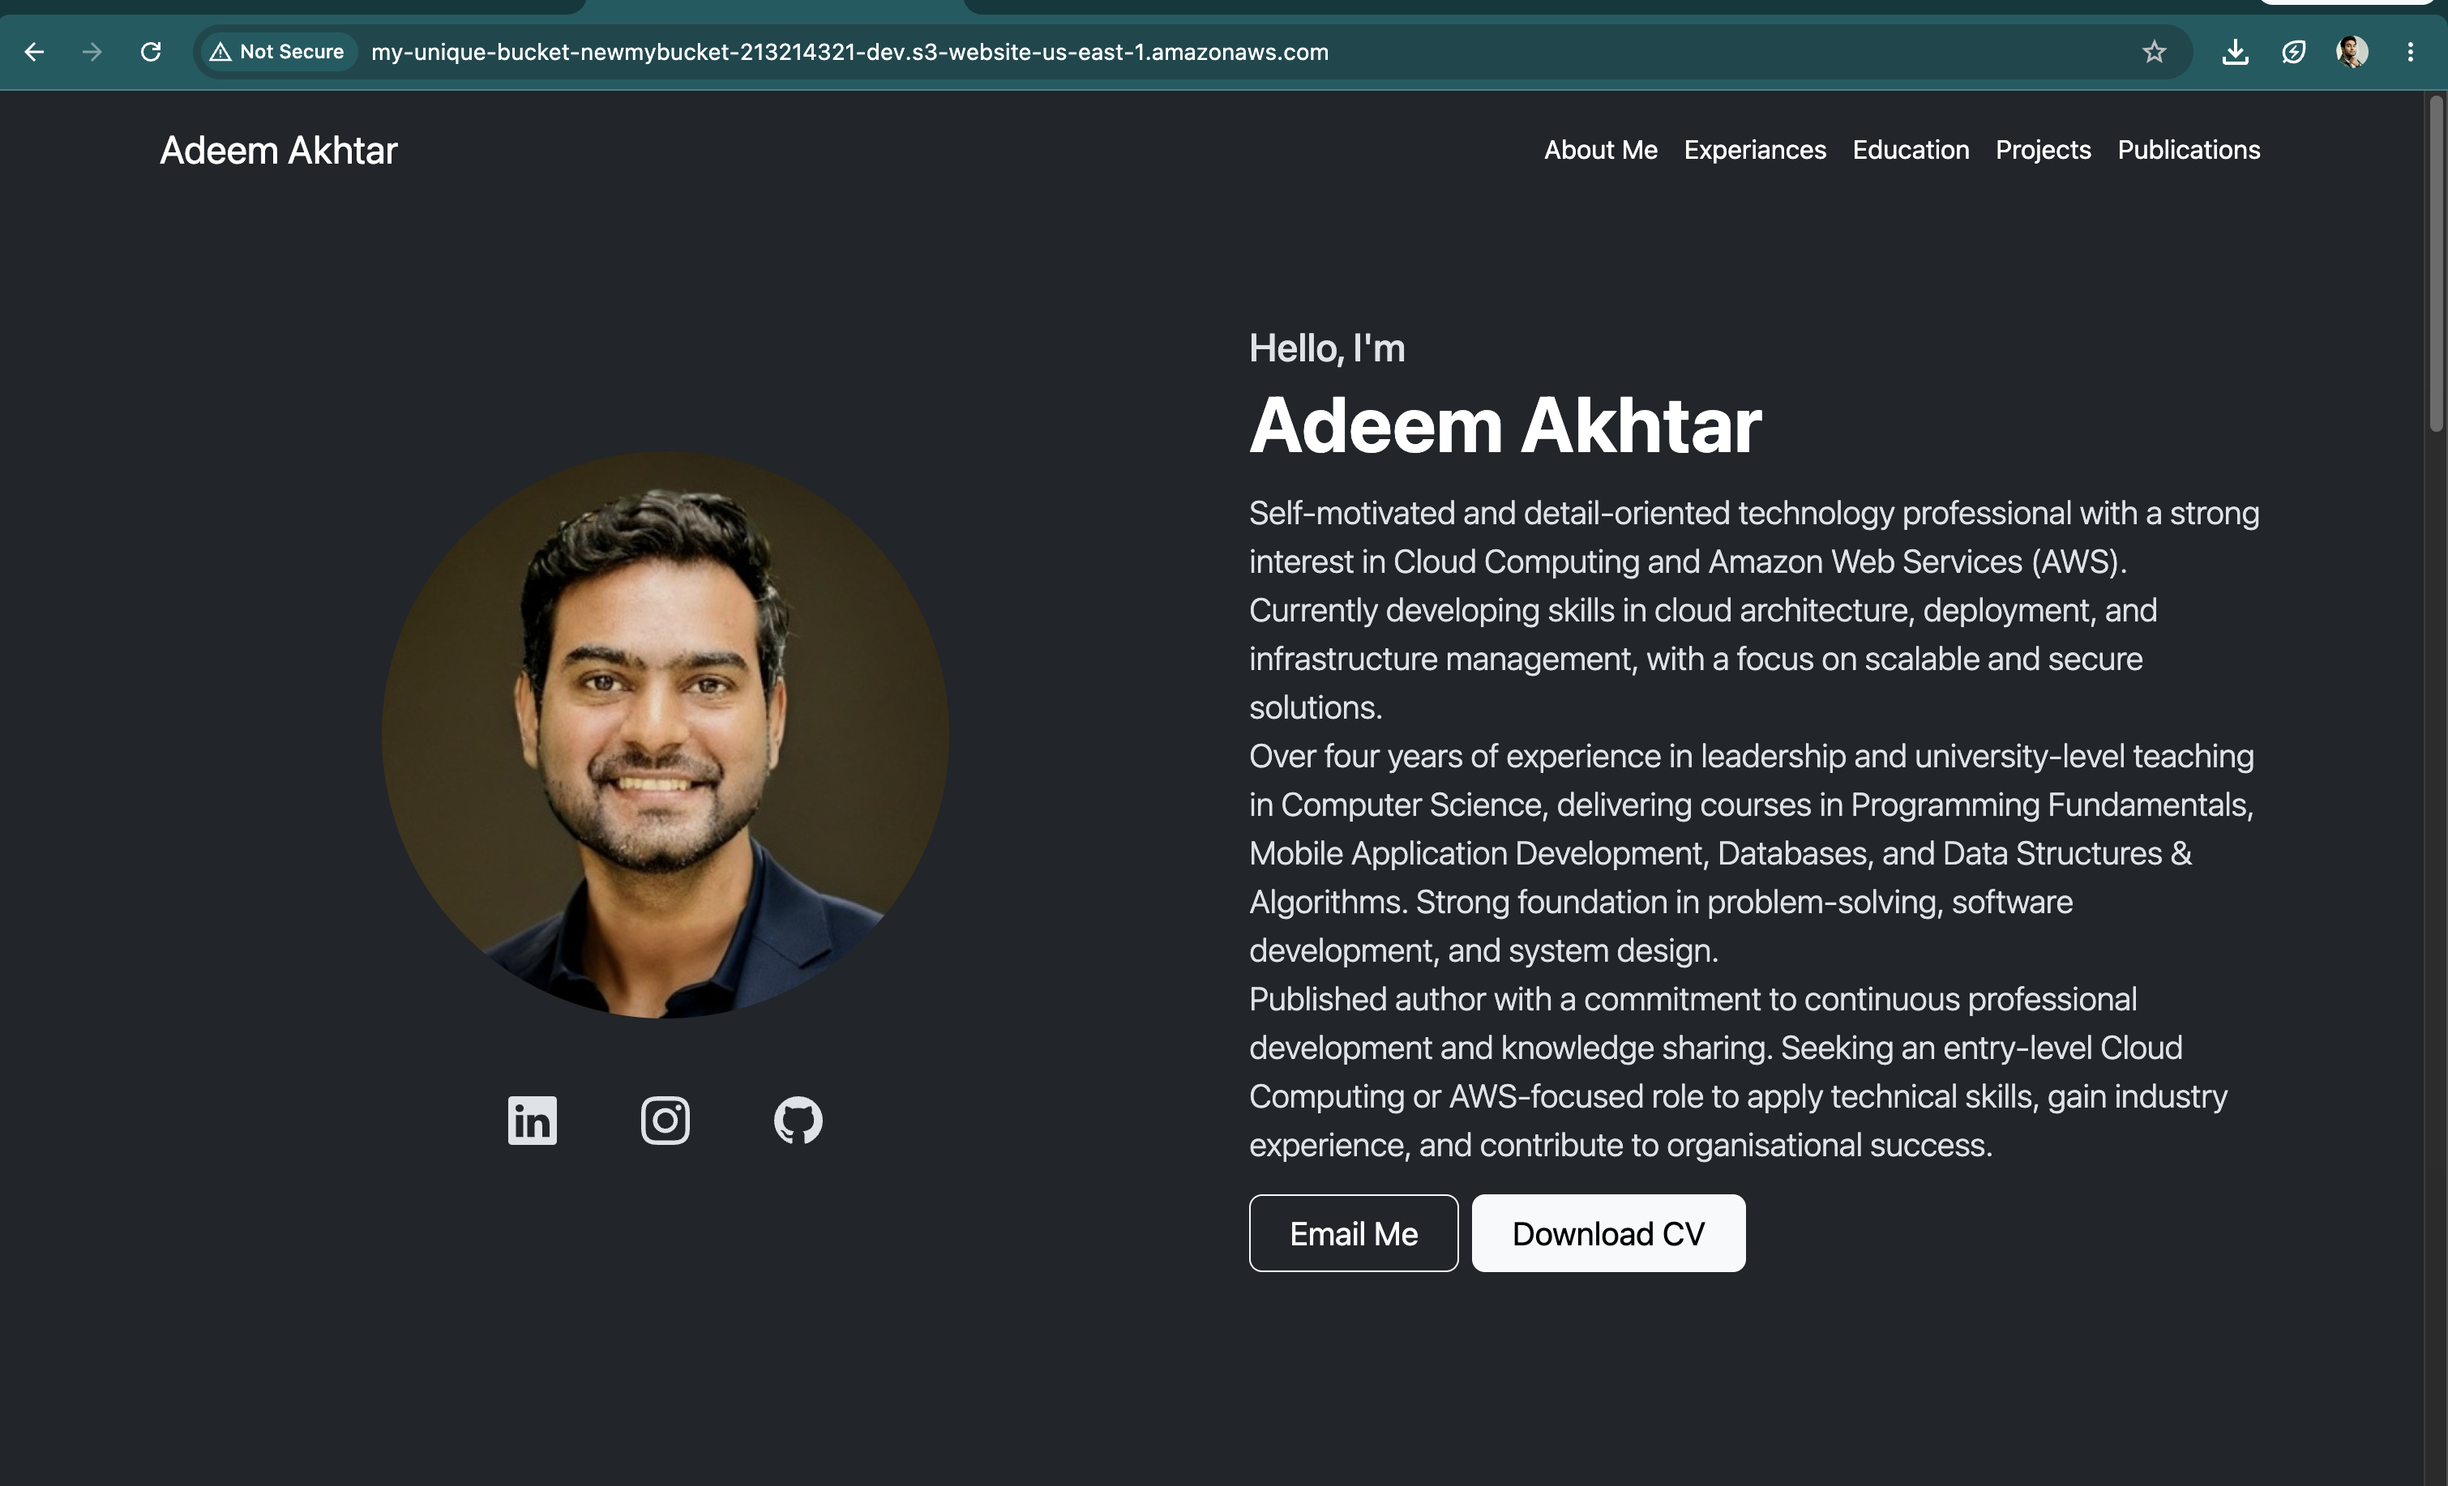
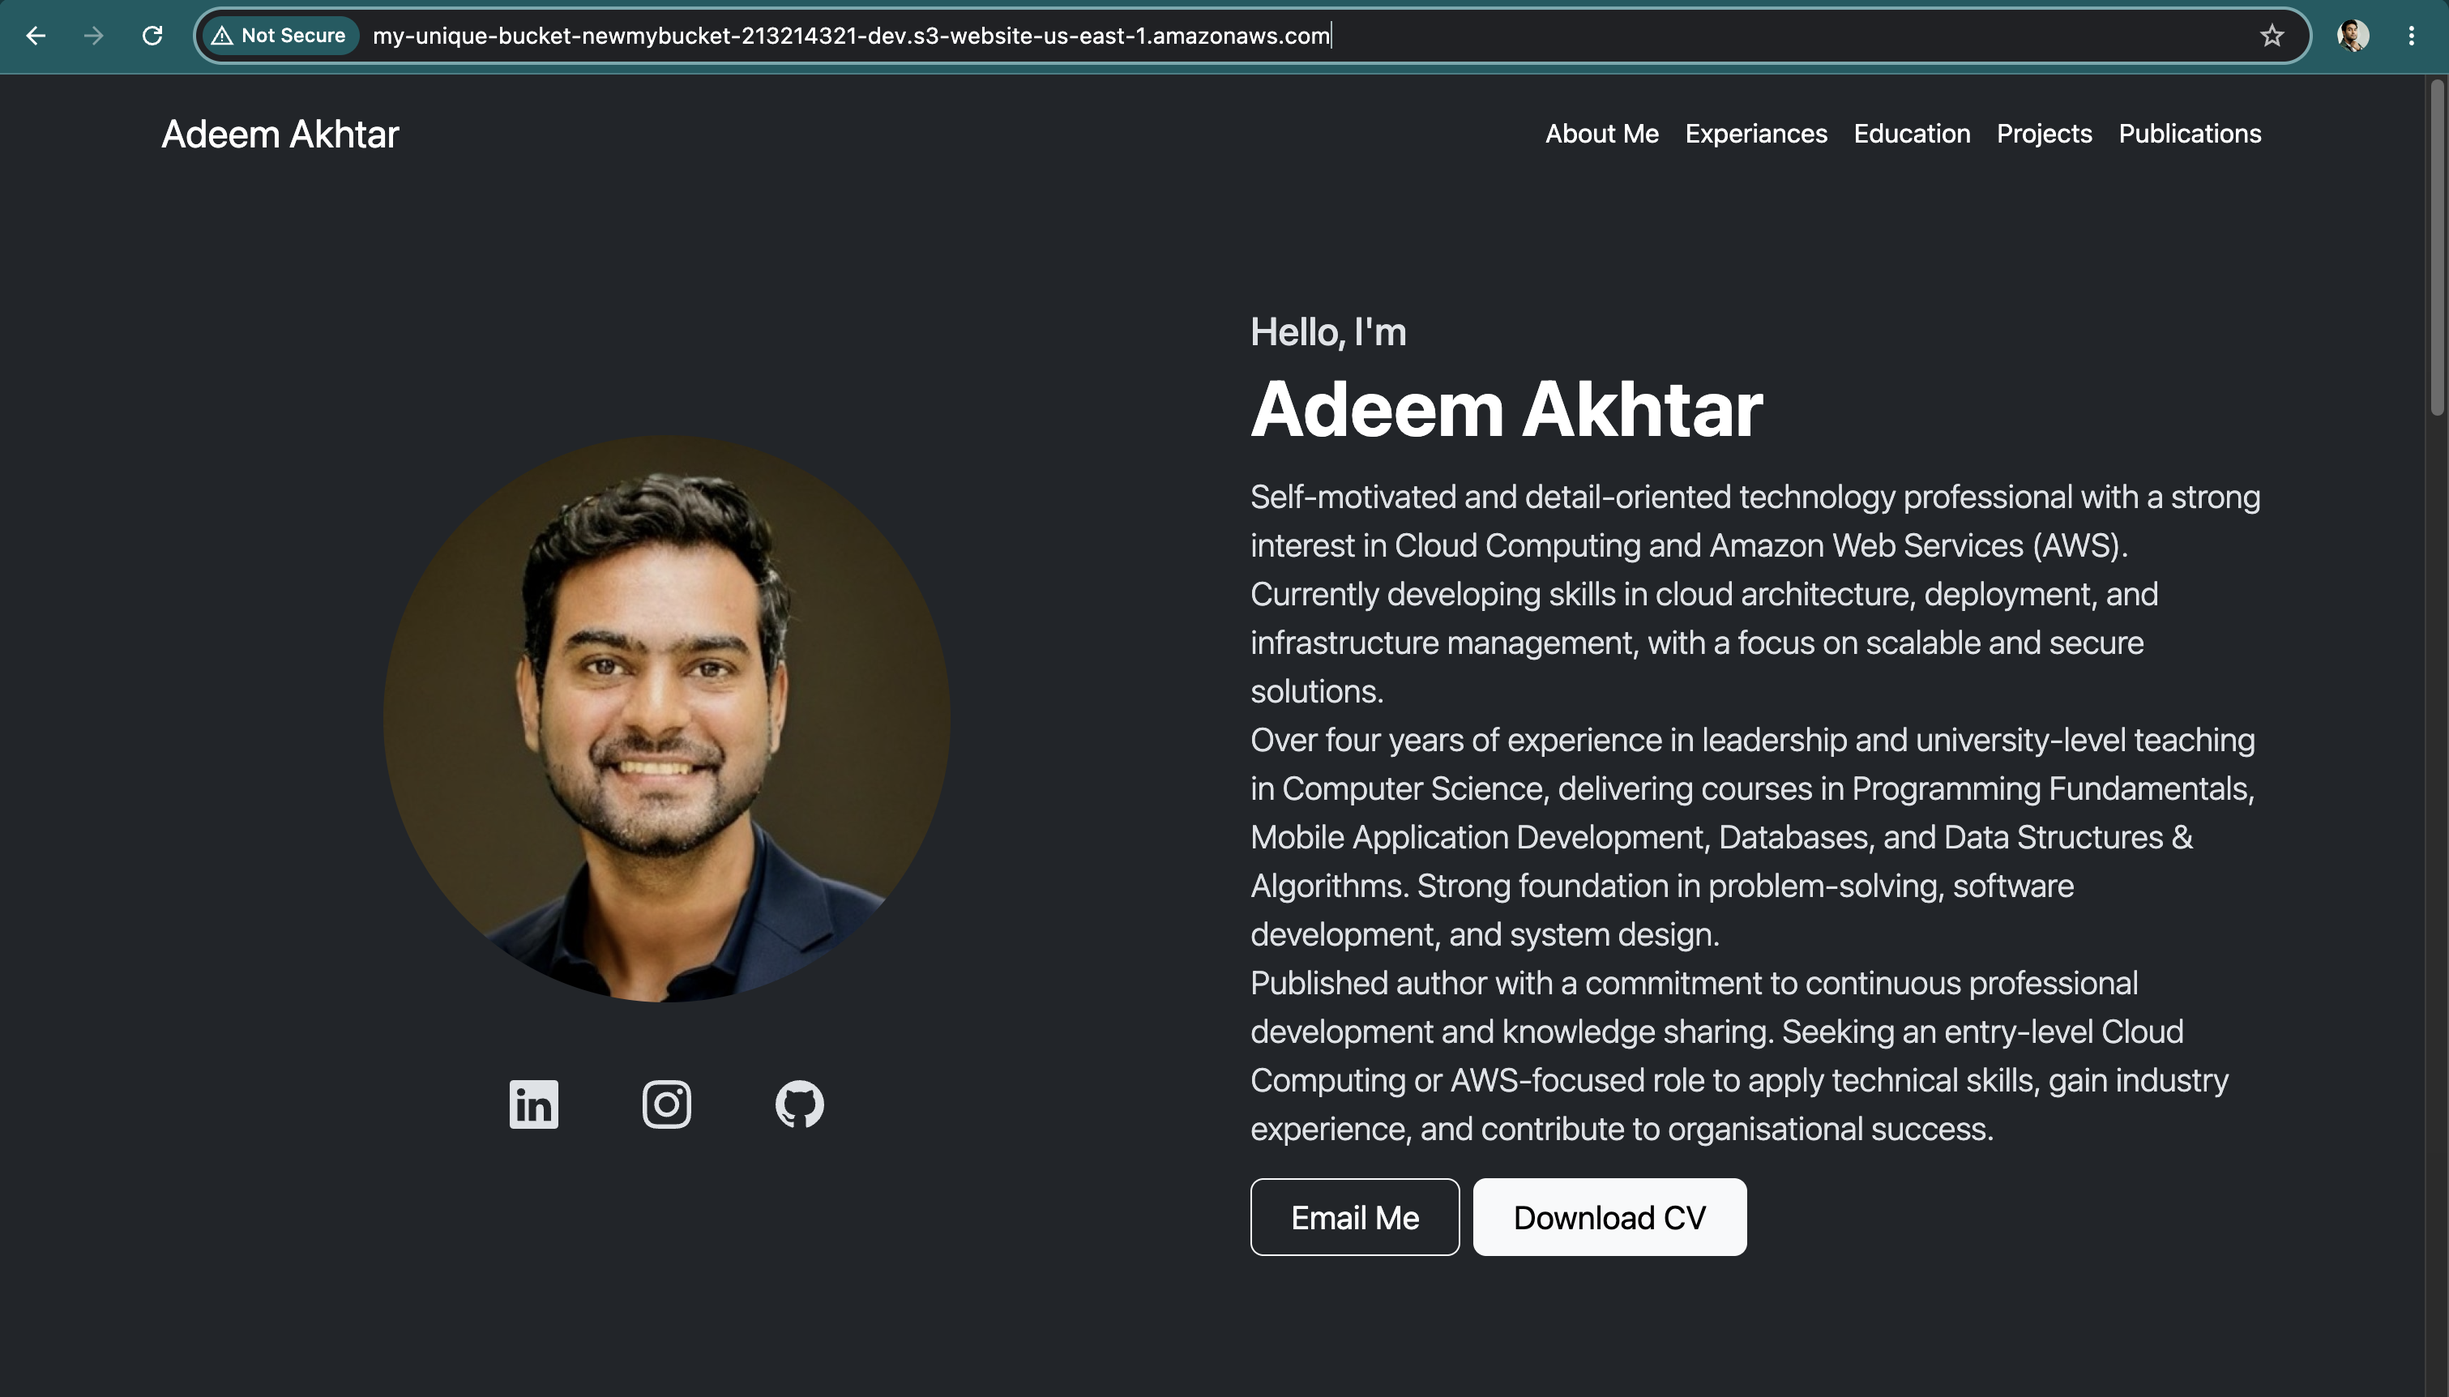
Portfolio Static Website Deployment through Terraform and Actions

diff --git a/README.md b/README.md
@@ -1,5 +1,7 @@
 # Automated AWS S3 Static Website Deployment with Terraform & GitHub Actions
 
+![<# alt text #>](ScreenShots/website.png "Screenshot")
+
 An Infrastructure as Code (IaC) project that provisions and manages an AWS S3 static website using Terraform and GitHub Actions. The project demonstrates automated infrastructure validation, deployment and destruction, remote Terraform state management, and secure GitHub-to-AWS authentication using OpenID Connect (OIDC).
 
 ## Project Overview
@@ -8,7 +10,9 @@ This project automates the lifecycle of a static website hosted on Amazon S3. In
 
 GitHub Actions provides separate workflows for continuous integration, deployment, and infrastructure destruction. GitHub OIDC enables workflows to assume an AWS IAM role without storing long-lived AWS access keys in GitHub secrets.
 
-**Live website:** `http://<your-s3-website-endpoint>`
+![<# alt text #>](ScreenShots/Website_url.png "Screenshot")
+
+**Live website:** `http://my-unique-bucket-newmybucket-213214321-dev.s3-website-us-east-1.amazonaws.com/`
 
 **GitHub repository:** https://github.com/AdeemAkhtar/terraform-s3-website
 
@@ -25,6 +29,8 @@ GitHub Actions provides separate workflows for continuous integration, deploymen
 - Make infrastructure changes reproducible and easier to review.
 
 ## Architecture
+
+![<# alt text #>](ScreenShots/Architecture.png "Screenshot")
 
 ```mermaid
 flowchart TD
@@ -60,6 +66,8 @@ The S3 website endpoint serves HTTP traffic. HTTPS and a custom domain are poten
 | Bash | Shell commands and automation support |
 
 ## Repository Structure
+
+![<# alt text #>](ScreenShots/Repository_structure.png "Screenshot")
 
 ```text
 terraform-s3-website/
@@ -101,12 +109,14 @@ Terraform declares the AWS resources required for the website, including:
 - S3 objects for `index.html`, `index.html` and `style.css`.
 - Outputs for useful deployment information, including the bucket name and website endpoint.
 
+![<# alt text #>](ScreenShots/AWS_Web_S3.png "Screenshot")
+
 Terraform references are used to connect resources and express dependencies rather than manually entering resource identifiers wherever possible.
 
 ### 2. Remote State Management
 
 Terraform state is stored remotely in a dedicated S3 bucket rather than being treated as a local file.
-
+![<# alt text #>](ScreenShots/AWS_Terraform_Remote_State_S3.png "Screenshot")
 Backend configuration:
 
 - **Bucket:** `terraform-state-adeem-2026`
@@ -130,7 +140,7 @@ Typical checks include:
 5. Initialize Terraform.
 6. Validate the configuration.
 7. Generate a Terraform plan.
-
+![<# alt text #>](ScreenShots/github_action_ci.png "Screenshot")
 This provides early feedback on formatting, configuration errors and proposed infrastructure changes.
 
 ### 4. Secure Authentication with GitHub OIDC
@@ -162,6 +172,10 @@ Its intended lifecycle is:
 6. Generate a Terraform plan.
 7. Apply the planned changes.
 8. Retrieve the website endpoint from Terraform outputs.
+
+![<# alt text #>](ScreenShots/github_action_cd.png "Screenshot")
+
+![<# alt text #>](ScreenShots/github_action_web_deployment.png "Screenshot")
 
 A deployment is complete only after the workflow succeeds and the website is verified in a browser. If the workflow uses a saved plan and a separate approval job, document that approval gate only after it has been implemented and tested.
 
